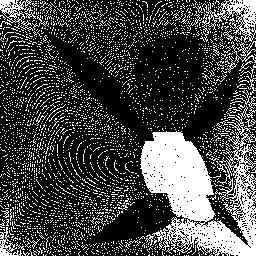
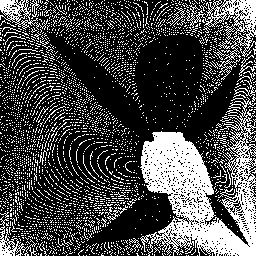
photon map generation

diff --git a/cs488/A4/PhotonMap.cpp b/cs488/A4/PhotonMap.cpp
@@ -19,7 +19,7 @@ using namespace glm;
 #define GLOSSY 3
 #define DIFFUSE 1
 
-static const int NUM_INC_PROJ_MAP = 100;
+static const int NUM_INC_PROJ_MAP = 500;
 static const int REFLECT_MAX_TIMES = 3;
 static const float INC_PHI = PI / NUM_INC_PROJ_MAP;
 static const float INC_THETA = 2.0f * PI / NUM_INC_PROJ_MAP;
@@ -134,7 +134,6 @@ void PhotonMap::castPhotons() {
 						if (dielectric != NULL) {
 							int cnt = 0;
 							intersection = light->position + isect.t * ray_dir;
-							bool store = false;
 							do {
 								SurfaceInteraction(dielectric, isect.normal, ray_dir, &ray_dir);
 								isect.t = HUGE_VAL;
@@ -191,6 +190,7 @@ void PhotonMap::SurfaceInteraction(
 	sin_thetaT = sin_thetaI * eta_I/eta_T;
 
 	if (sin_thetaT >= 1.0) {
+		cout << "total_internal!" << endl;
 		r_avg = 1.0;
 	} else {
 		// compute r_avg
@@ -252,11 +252,12 @@ void PhotonMap::renderPhotonMap() {
 void PhotonMap::renderProjectionMap() {
   Image image(256,256);
   vec3 eye = vec3(0,0,0);
-  float fov = 180.0f;
+  float fov = 120.0f;
   float size = 256.0f;
   float half_fov = (fov/2.0f) * PI/ 180.0f;
   float half_cos_fov = cos(half_fov);
   float half_sin_fov = sin(half_fov);
+	float half_tan_fov = tan(half_fov);
   int i,j;
   int count = 0;
 	int light_index = 0;
@@ -264,20 +265,26 @@ void PhotonMap::renderProjectionMap() {
 		for (Cell cell : projection_map[light_index]) {
 			float y_cos = glm::dot(glm::normalize(vec3(0,cell.pos.y, cell.pos.z)), vec3(0,0,-1));
 			float x_cos = glm::dot(glm::normalize(vec3(cell.pos.x, 0,cell.pos.z)), vec3(0,0,-1));
+			float y_ang = acos(y_cos);
+			float x_ang = acos(x_cos);
 			// cout << "y_cos: " << y_cos << ",x_cos: " << x_cos << endl;
 			if (y_cos > half_cos_fov && x_cos > half_cos_fov) {
-				float y_sin = sqrt(1-pow(y_cos, 2.0));
-				float x_sin = sqrt(1-pow(x_cos, 2.0));
+				float y_tan = tan(y_ang);
+				float x_tan = tan(x_ang);
+				// float y_sin = sqrt(1-pow(y_cos, 2.0));
+				// float x_sin = sqrt(1-pow(x_cos, 2.0));
 				if (cell.pos.y < 0) {
-					y_sin = -y_sin;
+					y_tan = -y_tan;
 				}
 				if (cell.pos.x < 0) {
-					x_sin = -x_sin;
+					x_tan = -x_tan;
 				}
 				// cout << "y_sin: " << y_sin << ",x_sin: " << x_sin << endl;
-				i = (int)((x_sin / half_sin_fov) * size / 2.0 + size / 2.0);
-				j = (int)(-(y_sin / half_sin_fov) * size / 2.0 + size / 2.0);
-				// cout << "i: " << i << ",j: " << j << endl;
+				// cout << "x_tan: " << x_tan << endl;
+				// cout << "y_tan: " << y_tan << endl;
+				i = (int)((x_tan / half_tan_fov) * size / 2.0 + size / 2.0);
+				j = (int)(-(y_tan / half_tan_fov) * size / 2.0 + size / 2.0);
+				cout << "i: " << i << ",j: " << j << endl;
 				for ( int k = 0; k < 3; k++) {
 					image((uint)i, (uint)j, k) = 1.0;
 				}

diff --git a/cs488/A4/A4.cpp b/cs488/A4/A4.cpp
@@ -24,7 +24,7 @@ static unsigned char *bg_data;
 static const bool ADAPTIVE_SAMPLING = false;
 static const bool SOFT_SHADOW = false;
 static const bool FRESNEL = true;
-static const bool PHOTON_MAP = false;
+static const bool PHOTON_MAP = true;
 static const bool DEPTH_OF_FIELD = false;
 static const double LIGHT_RADIUS = 0.05;
 static const double GLOSSY_REFL_FRACTION = 0.4;
@@ -96,8 +96,8 @@ void A4::A4_Render(
 	// create photon map
 	if (PHOTON_MAP) {
 		photon_map.createProjMap();
-		photon_map.castPhotons();
-		photon_map.renderPhotonMap();
+		// photon_map.castPhotons();
+		// photon_map.renderPhotonMap();
 		photon_map.renderProjectionMap();
 		return;
 	}
